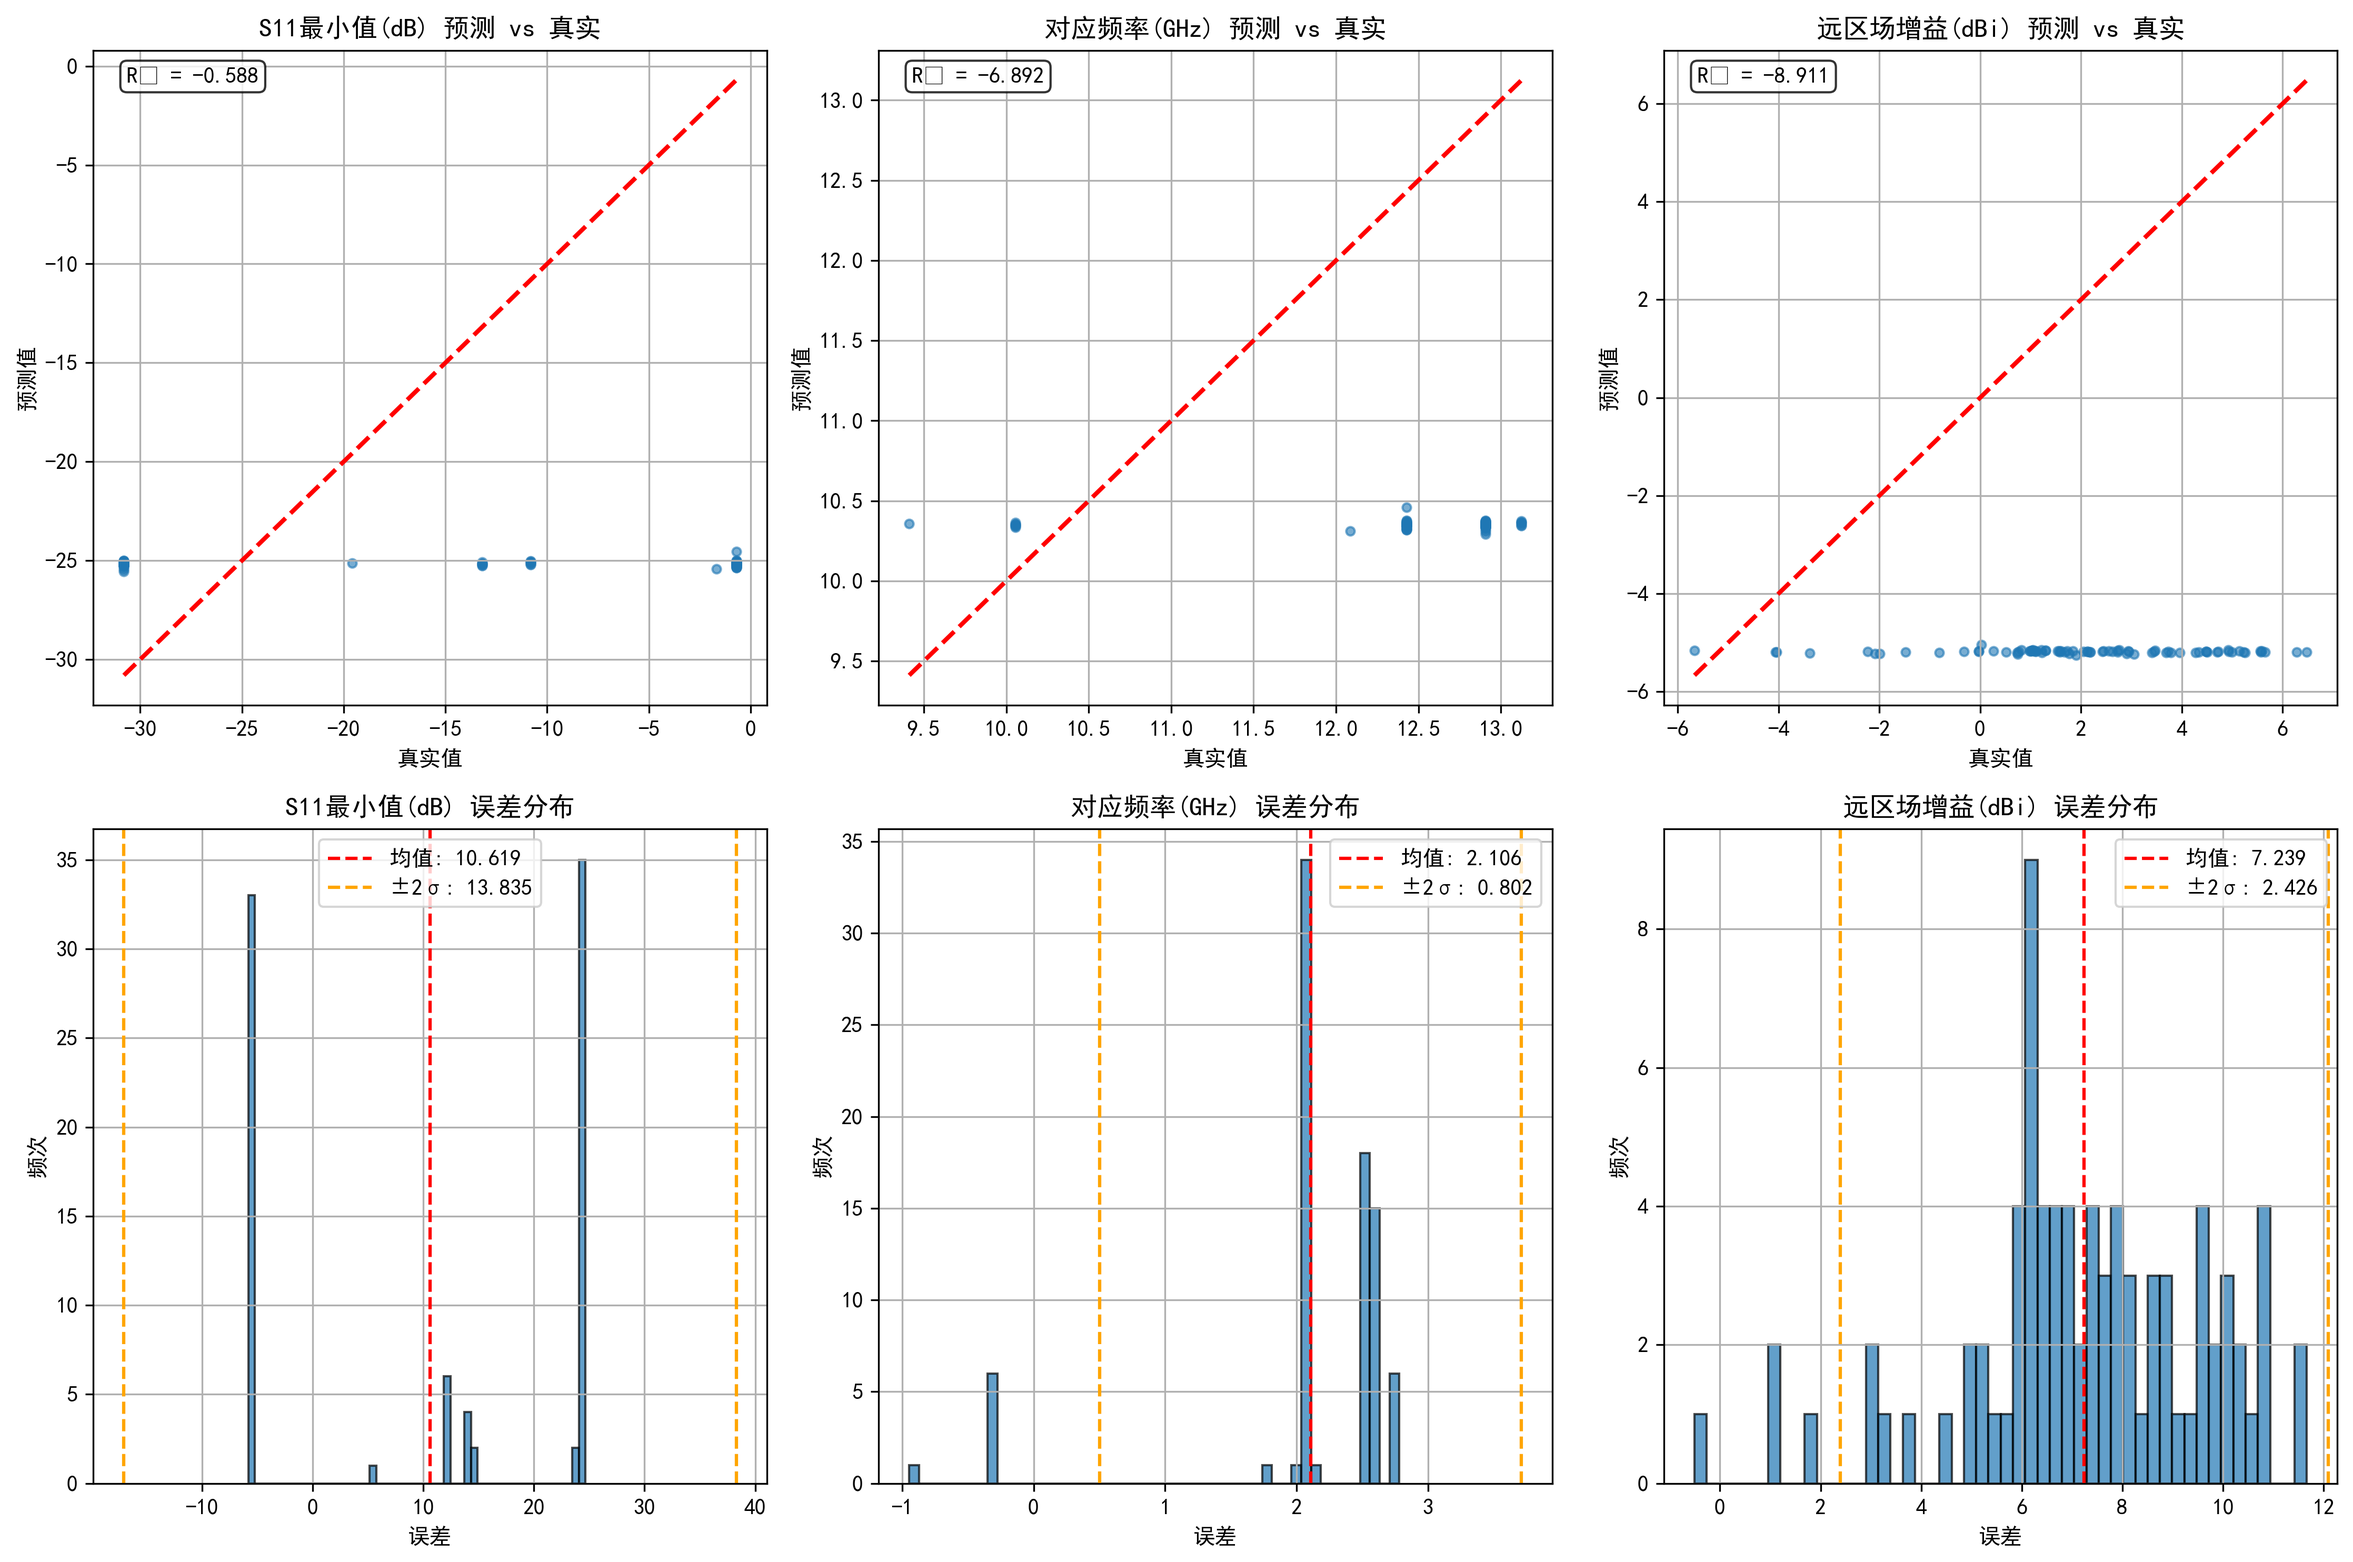
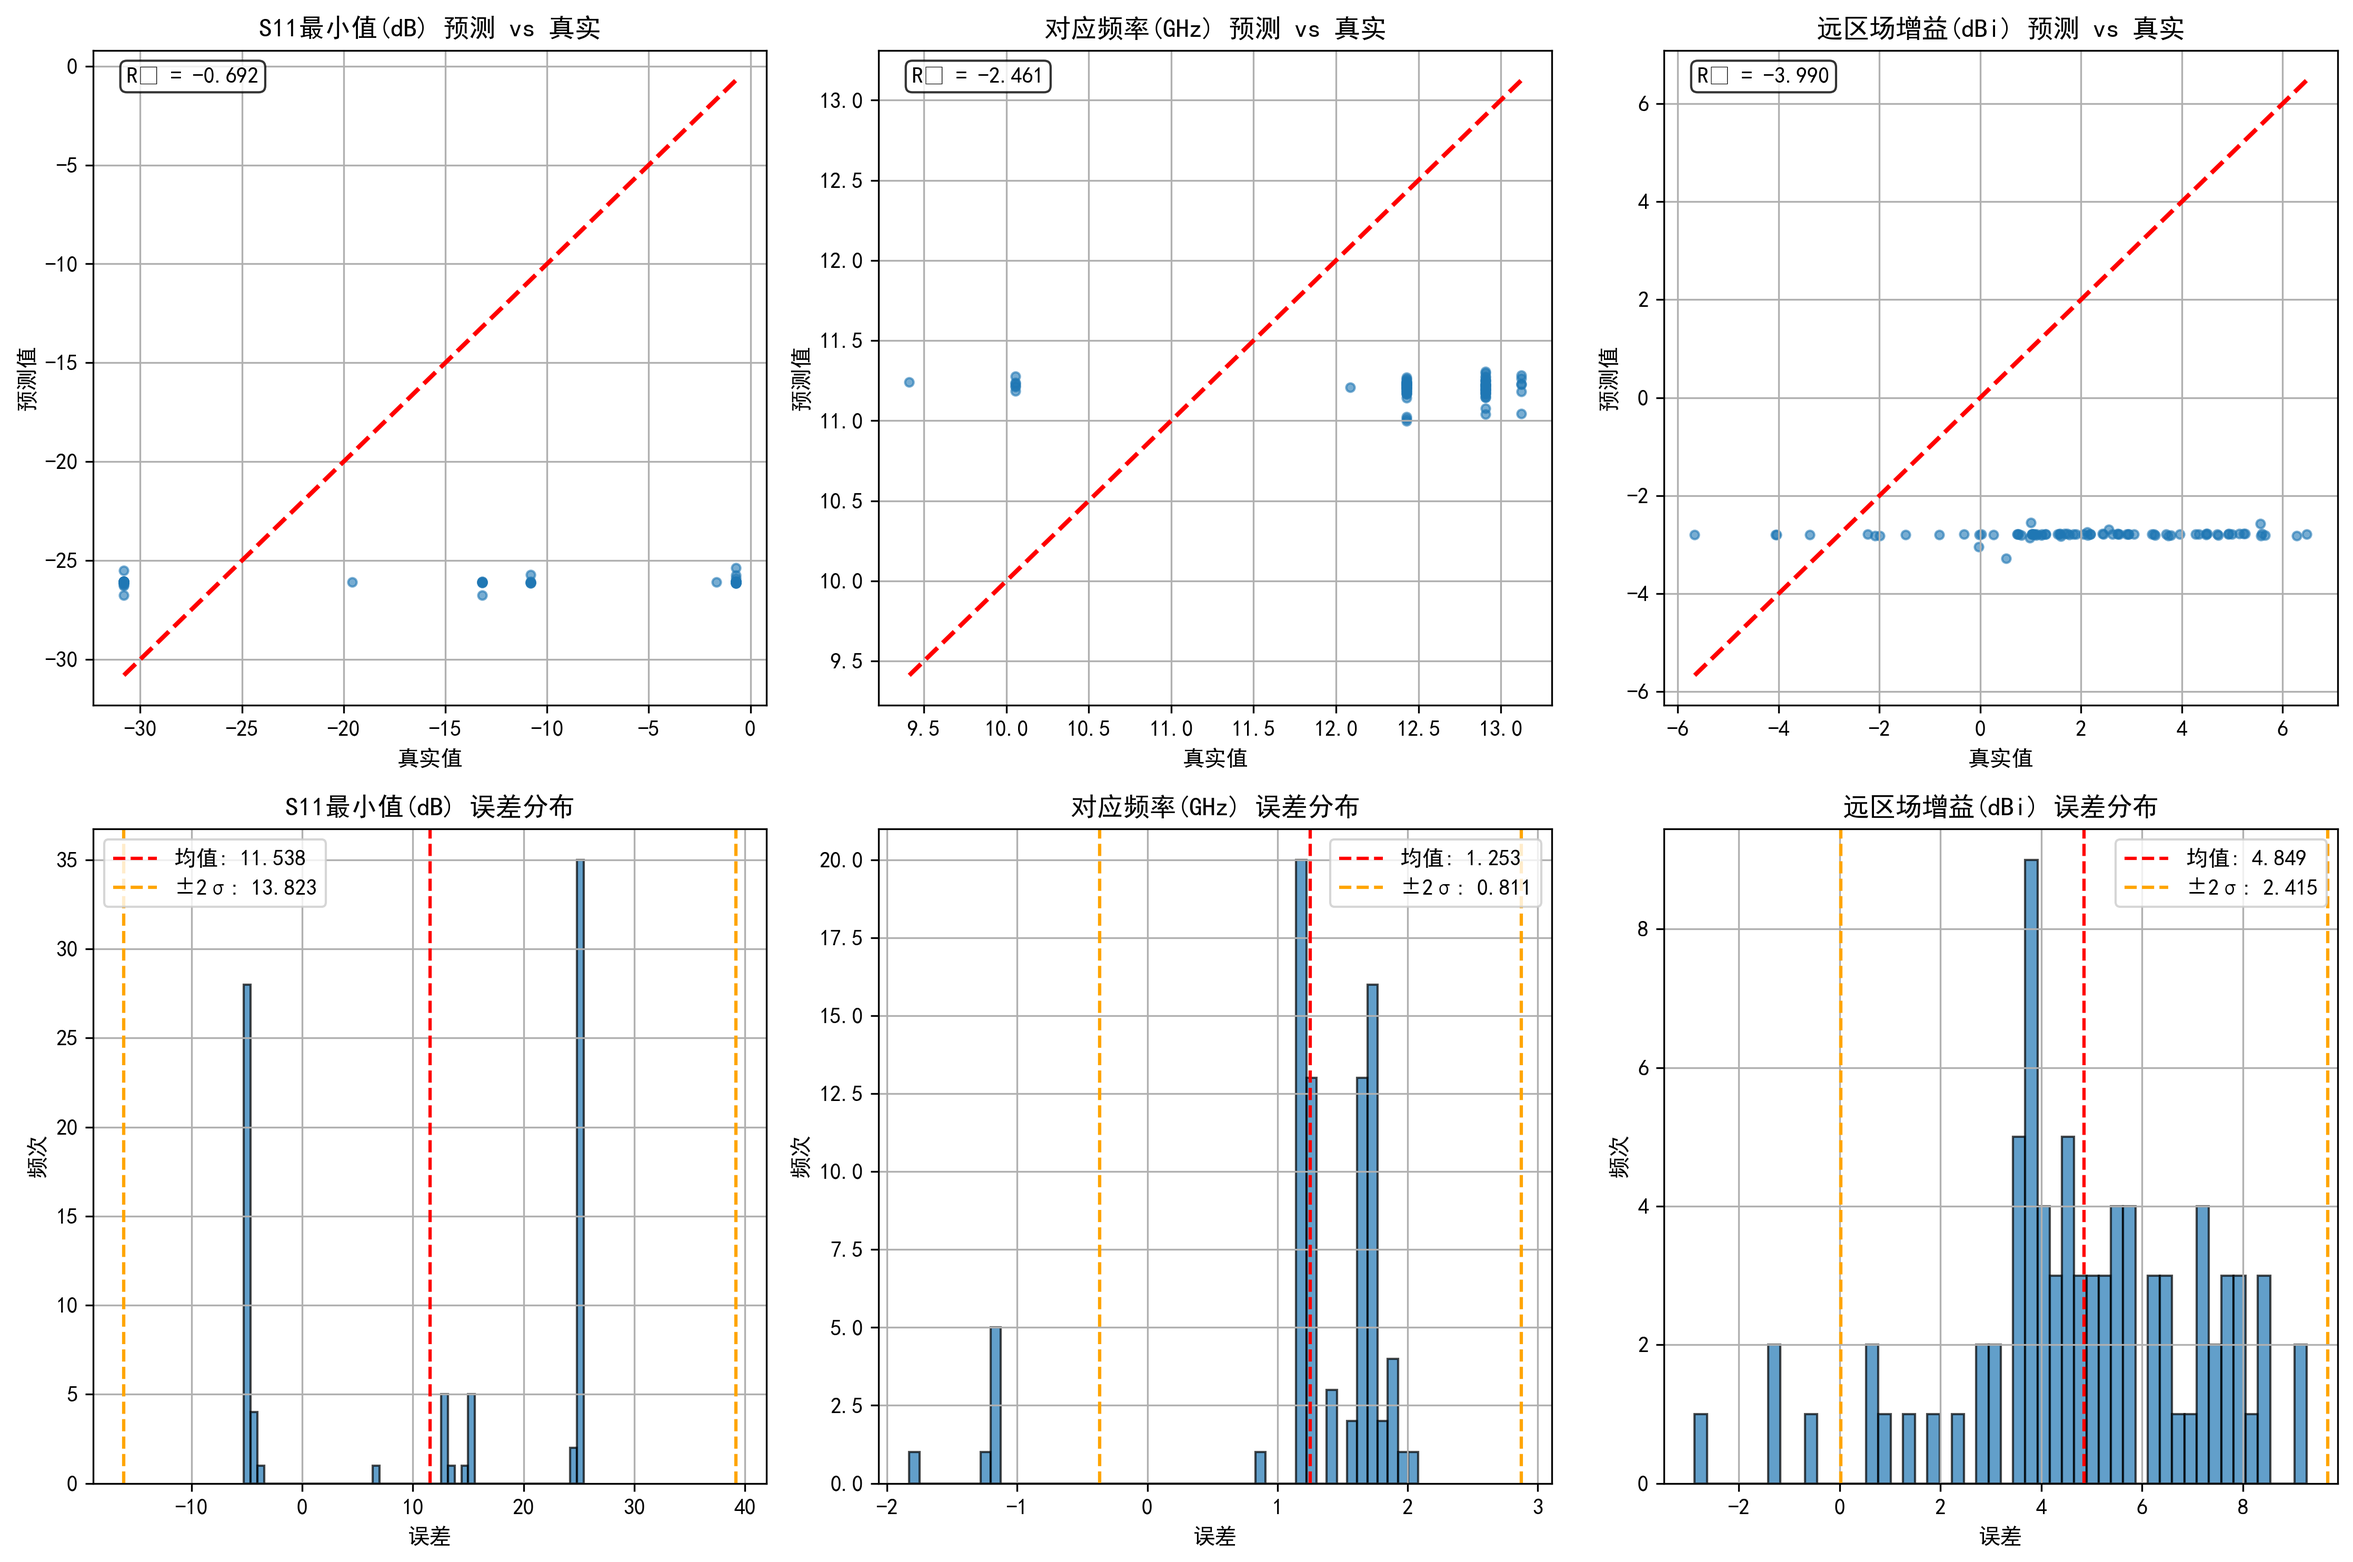
提交训练所用数据

diff --git a/example_usage.py b/example_usage.py
@@ -127,8 +127,9 @@ def complete_workflow_demo():
     print("\n4. 模型训练...")
 
     # 创建模型（指定设备）
-    print("   创建CNN模型...")
-    model = system.create_model(model_type='cnn') #        model_type: 模型类型 ('mlp', 'resnet', 'cnn')
+    train_model_type = 'gnn'
+    print(f"   创建{train_model_type}模型...")
+    model = system.create_model(model_type='gnn') #        model_type: 模型类型 ('mlp', 'resnet', 'cnn')
     model = model.to(device)  # 关键修复：将模型移到GPU/CPU
     print(f"   模型设备: {next(model.parameters()).device}")
 
@@ -163,15 +164,15 @@ def complete_workflow_demo():
 
     # 6. 生成可视化结果
     print("\n6. 生成可视化结果...")
-    system.visualize_results(history, y_test_np, y_pred_test)
+    system.visualize_results(history, y_test_np, y_pred_test,model_type='gnn')
 
     # 7. 天线参数优化
     print("\n7. 天线参数优化...")
 
     # 定义设计目标（根据实际需求调整）
     target_specs = [
-        -20.0,   # S11最小值目标: -32dB (越小越好)
-        10,      # 工作频率目标: 2.45GHz (WiFi频段)
+        -15.0,   # S11最小值目标: -32dB (越小越好)
+        11,      # 工作频率目标: 2.45GHz (WiFi频段)
         7.0      # 远区场增益目标: 7.0dBi (越大越好)
     ]
 
@@ -189,7 +190,7 @@ def complete_workflow_demo():
 
     print("   参数优化边界:")
     for i, name in enumerate(system.param_names):
-        print(f"     {name}: {param_bounds[i, 0]:.1f} - {param_bounds[i, 1]:.1f}")
+        print(f"     {name}: {param_bounds[i, 0]:.3f} - {param_bounds[i, 1]:.3f}")
 
     # 执行优化
     print("   开始参数优化...")
@@ -241,7 +242,23 @@ def complete_workflow_demo():
     # 9. HFSS仿真验证（如果需要）
     print("\n9. HFSS仿真验证...")
     try:
-        simulated_performance = system.hfss_interface(optimal_params)
+        # simulated_performance = system.hfss_interface(optimal_params)
+        antenna_params_test_by_hfss = {"unit": "GHz",
+                                       "start_frequency": 5,
+                                       "stop_frequency": 15,
+                                       "center_frequency": 10,
+                                       "sweep_type": "Fast",
+                                       "ground_thickness": float(optimal_params[2]),
+                                       "signal_layer_thickness": float(optimal_params[3]),
+                                       "patch_length": float(optimal_params[0]),
+                                       "patch_width": float(optimal_params[1]),
+                                       "patch_name": "Patch",
+                                       "freq_step": "1GHz",
+                                       "num_of_freq_points": 101}
+        train_model = False
+        success, freq_at_s11_min, far_field_gain, s11_min = calculate_from_hfss_py(antenna_params_test_by_hfss,
+                                                                                   train_model)
+        simulated_performance = [s11_min, freq_at_s11_min, far_field_gain]
     except Exception as e:
         print(f"   ⚠ HFSS仿真验证失败: {e}")
         simulated_performance = [np.nan] * len(predicted_performance)
@@ -286,7 +303,7 @@ def complete_workflow_demo():
             'rmse_scores': [np.sqrt(mean_squared_error(y_test_np[:, i], y_pred_test[:, i])) for i in range(3)]
         },
         'training_info': {
-            'model_type': 'cnn',
+            'model_type': train_model_type,
             'epochs': 250,
             'batch_size': 128,
             'training_time': training_time,
@@ -567,10 +584,10 @@ if __name__ == "__main__":
     design_report = complete_workflow_demo()
 
     # 演示2: 批量设计（可选）
-    print("\n" + "=" * 50)
-    print("正在运行批量设计演示...")
-    print("=" * 50)
-    batch_results = batch_optimization_demo()
+    # print("\n" + "=" * 50)
+    # print("正在运行批量设计演示...")
+    # print("=" * 50)
+    # batch_results = batch_optimization_demo()
 
     # 演示3: 模型比较（可选）
     # print("\n" + "=" * 50)

diff --git a/patch_antenna_design.py b/patch_antenna_design.py
@@ -949,7 +949,8 @@ class PatchAntennaDesignSystem:
             param_importance = np.random.rand(self.input_dim)  # 实际应该从模型中提取
 
             for i, ax in enumerate(axes.flat):
-                if i < self.input_dim:
+                # if i < self.input_dim:
+                if i < len(self.perf_names):
                     ax.bar(range(self.input_dim), param_importance, alpha=0.7)
                     ax.set_xticks(range(self.input_dim))
                     ax.set_xticklabels(self.param_names, rotation=45, ha='right')
